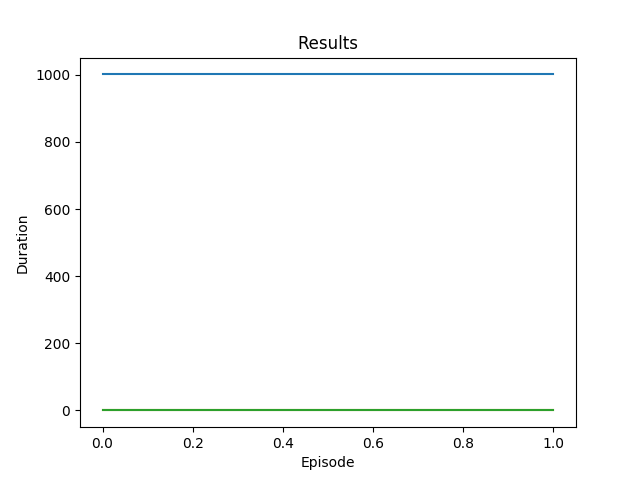
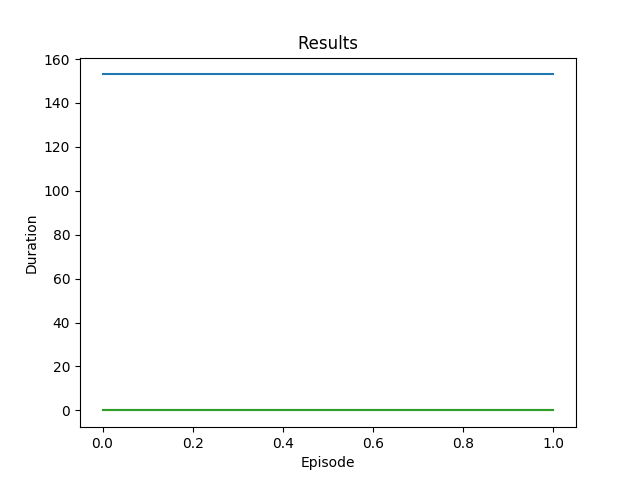
DQN test is running, it still seems to loop a bit

diff --git a/Testing/TestEnv.py b/Testing/TestEnv.py
@@ -108,7 +108,7 @@ class TestMap:
         # self.end = [948, 700] 
 
         self.start = [180, 970]
-        self.end = [680, 30]
+        self.end = [680, 100]
 
     def _set_up_heat_map(self):
         track_map = self.race_map
@@ -259,27 +259,25 @@ class TestEnv(TestMap, CarModel):
         rel_target = lib.sub_locations(target, self.car_x)
         self.target = rel_target
         transformed_target = lib.transform_coords(rel_target, self.theta)
-        obs = np.concatenate([transformed_target, self.ranges])
+        normalised_target = lib.normalise_coords(transformed_target)
+        obs = np.concatenate([normalised_target, self.ranges])
 
         return obs
 
     def _get_target(self):
-        # update pind
-        dis_wpts = lib.get_distance(self.wpts[self.pind], self.wpts[self.pind+1]) 
+        dis_last_pt = lib.get_distance(self.wpts[self.pind-1], self.car_x)
         dis_next_pt = lib.get_distance(self.car_x, self.wpts[self.pind+1])
-        while dis_next_pt < dis_wpts and self.pind < len(self.wpts)-2:
+        while dis_next_pt < dis_last_pt and self.pind < len(self.wpts)-2:
             self.pind += 1
-            dis_wpts = lib.get_distance(self.wpts[self.pind], self.wpts[self.pind+1]) 
+
+            dis_last_pt = lib.get_distance(self.wpts[self.pind-1], self.car_x)
             dis_next_pt = lib.get_distance(self.car_x, self.wpts[self.pind+1])
         # use pind and pind +1 to get a 5 unit distance vector 
         next_pt = self.wpts[self.pind]
         next_next_pt = self.wpts[self.pind+1]
 
-        dis_pind_pt = lib.get_distance(self.car_x, next_pt)
-        fraction = dis_pind_pt / dis_wpts
-        dx = (next_next_pt[0] - next_pt[0]) * (1-fraction)
-        dy = (next_next_pt[1] - next_pt[1]) * (1-fraction)
-        target = lib.add_locations([dx, dy], next_pt) # add a bit from the following pt. 
+        target = lib.add_locations(next_pt, next_next_pt)
+        target = [target[0]/2, target[1]/2]
 
         return target
 
@@ -332,6 +330,35 @@ class TestEnv(TestMap, CarModel):
         
         plt.pause(0.01)
         # plt.show()
+
+    def full_render(self):
+        car_pos = self.car_x
+
+        fig = plt.figure(5)
+        plt.clf()  
+        plt.imshow(self.race_map.T, origin='lower')
+        plt.xlim(0, 1000)
+        plt.ylim(0, 1000)
+
+        plt.plot(car_pos[0], car_pos[1], '+', markersize=20)
+        targ = lib.add_locations(car_pos, self.target)
+        plt.plot(targ[0], targ[1], 'x', markersize=14)
+
+        for i in range(self.n_ranges):
+            angle = self.range_angles[i] + self.theta
+            fs = self.ranges[i] * 8 * 20
+            dx =  [np.sin(angle) * fs, np.cos(angle) * fs]
+            range_val = lib.add_locations(car_pos, dx)
+            x = [car_pos[0], range_val[0]]
+            y = [car_pos[1], range_val[1]]
+            plt.plot(x, y)
+
+        
+        plt.pause(0.01)
+        # plt.show()
+
+
+
 
 
 

diff --git a/Testing/RunTests.py b/Testing/RunTests.py
@@ -42,6 +42,7 @@ def getsize(obj):
         objects = get_referents(*need_referents)
     return size
 
+
 def evaluate_agent(env, agent, show=True):
     agent.load()
     print_n = 10
@@ -56,7 +57,8 @@ def evaluate_agent(env, agent, show=True):
             state = s_prime
             score += 1 # counts number of steps
             if show:
-                env.box_render()
+                # env.box_render()
+                env.full_render()
                 pass
             
         rewards.append(score)
@@ -158,5 +160,5 @@ def RunPurePursuitTest():
 if __name__ == "__main__":
     # RunCorridorTest()
     # RunDQNTraining()
-    # RunDQNTest()
-    RunPurePursuitTest()
+    RunDQNTest()
+    # RunPurePursuitTest()

diff --git a/Testing/LibFunctions.py b/Testing/LibFunctions.py
@@ -43,6 +43,12 @@ def transform_coords(x=[0, 0], theta=np.pi):
 
     return np.array([new_x, new_y])
 
+def normalise_coords(x=[0, 0]):
+    r = x[0]/x[1]
+    y = np.sqrt(1/(1+r**2))
+    x = y * r
+    return [x, y]
+
 
 def plot(values, moving_avg_period=10, title="Results", figure_n=2):
     plt.figure(figure_n)
